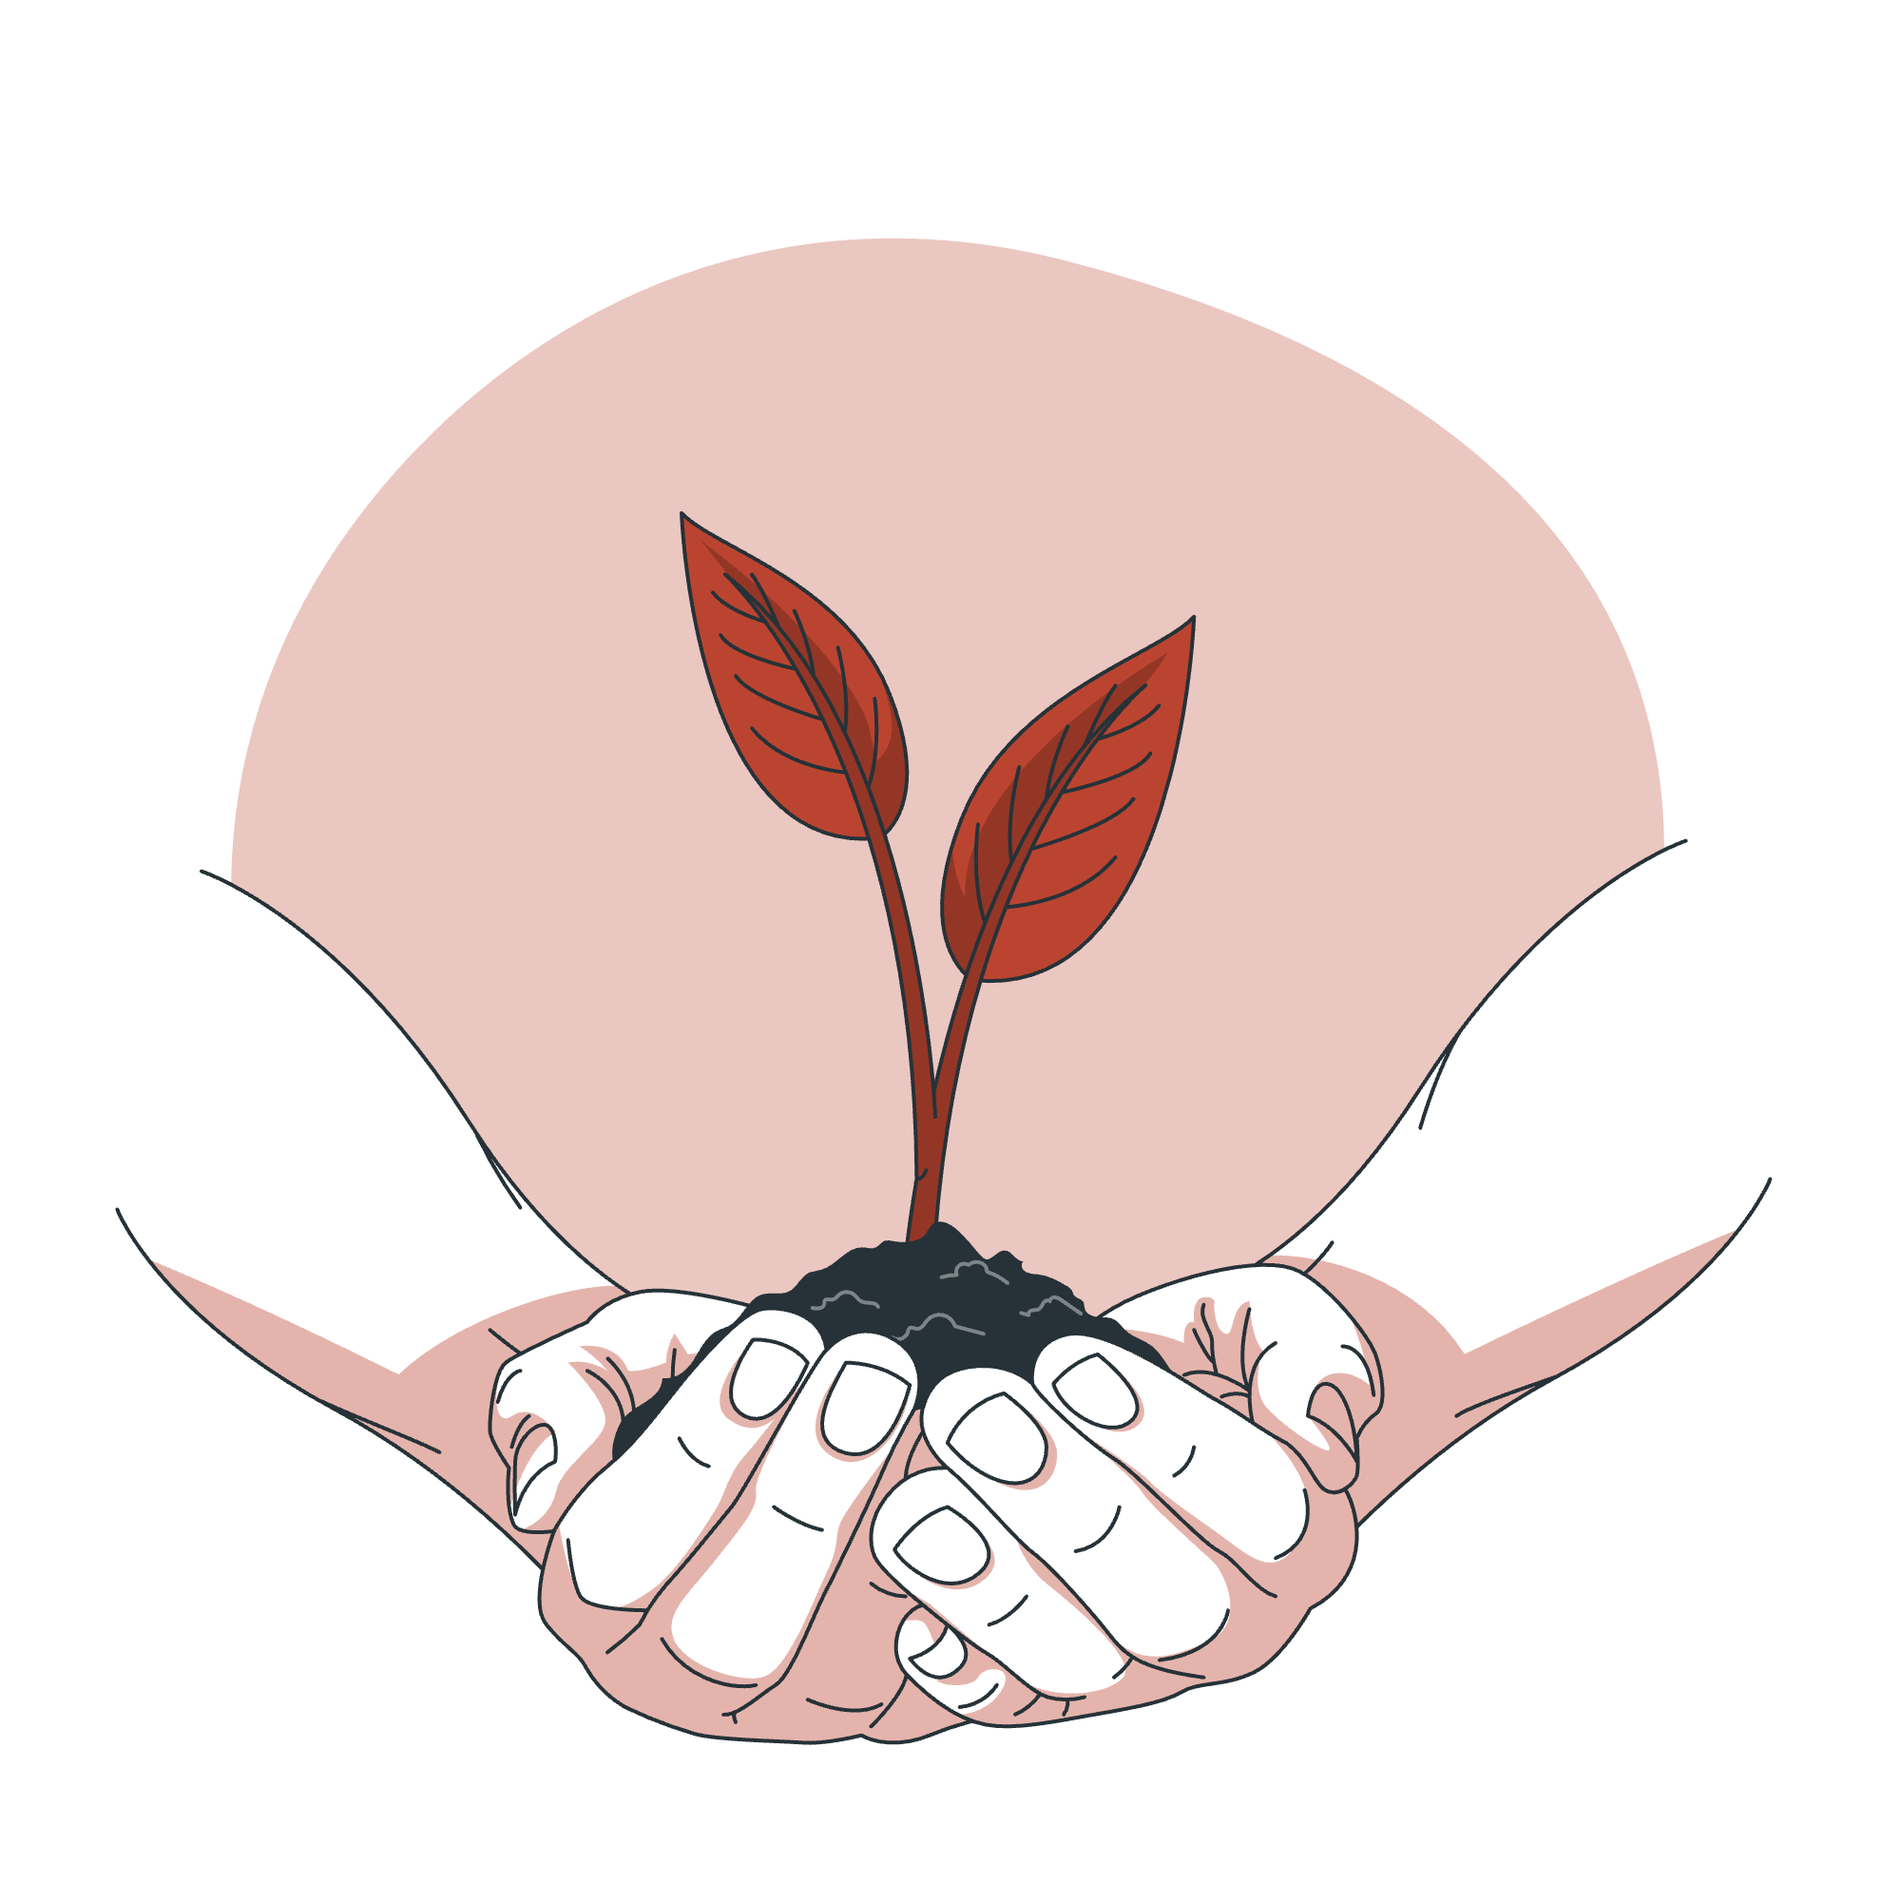
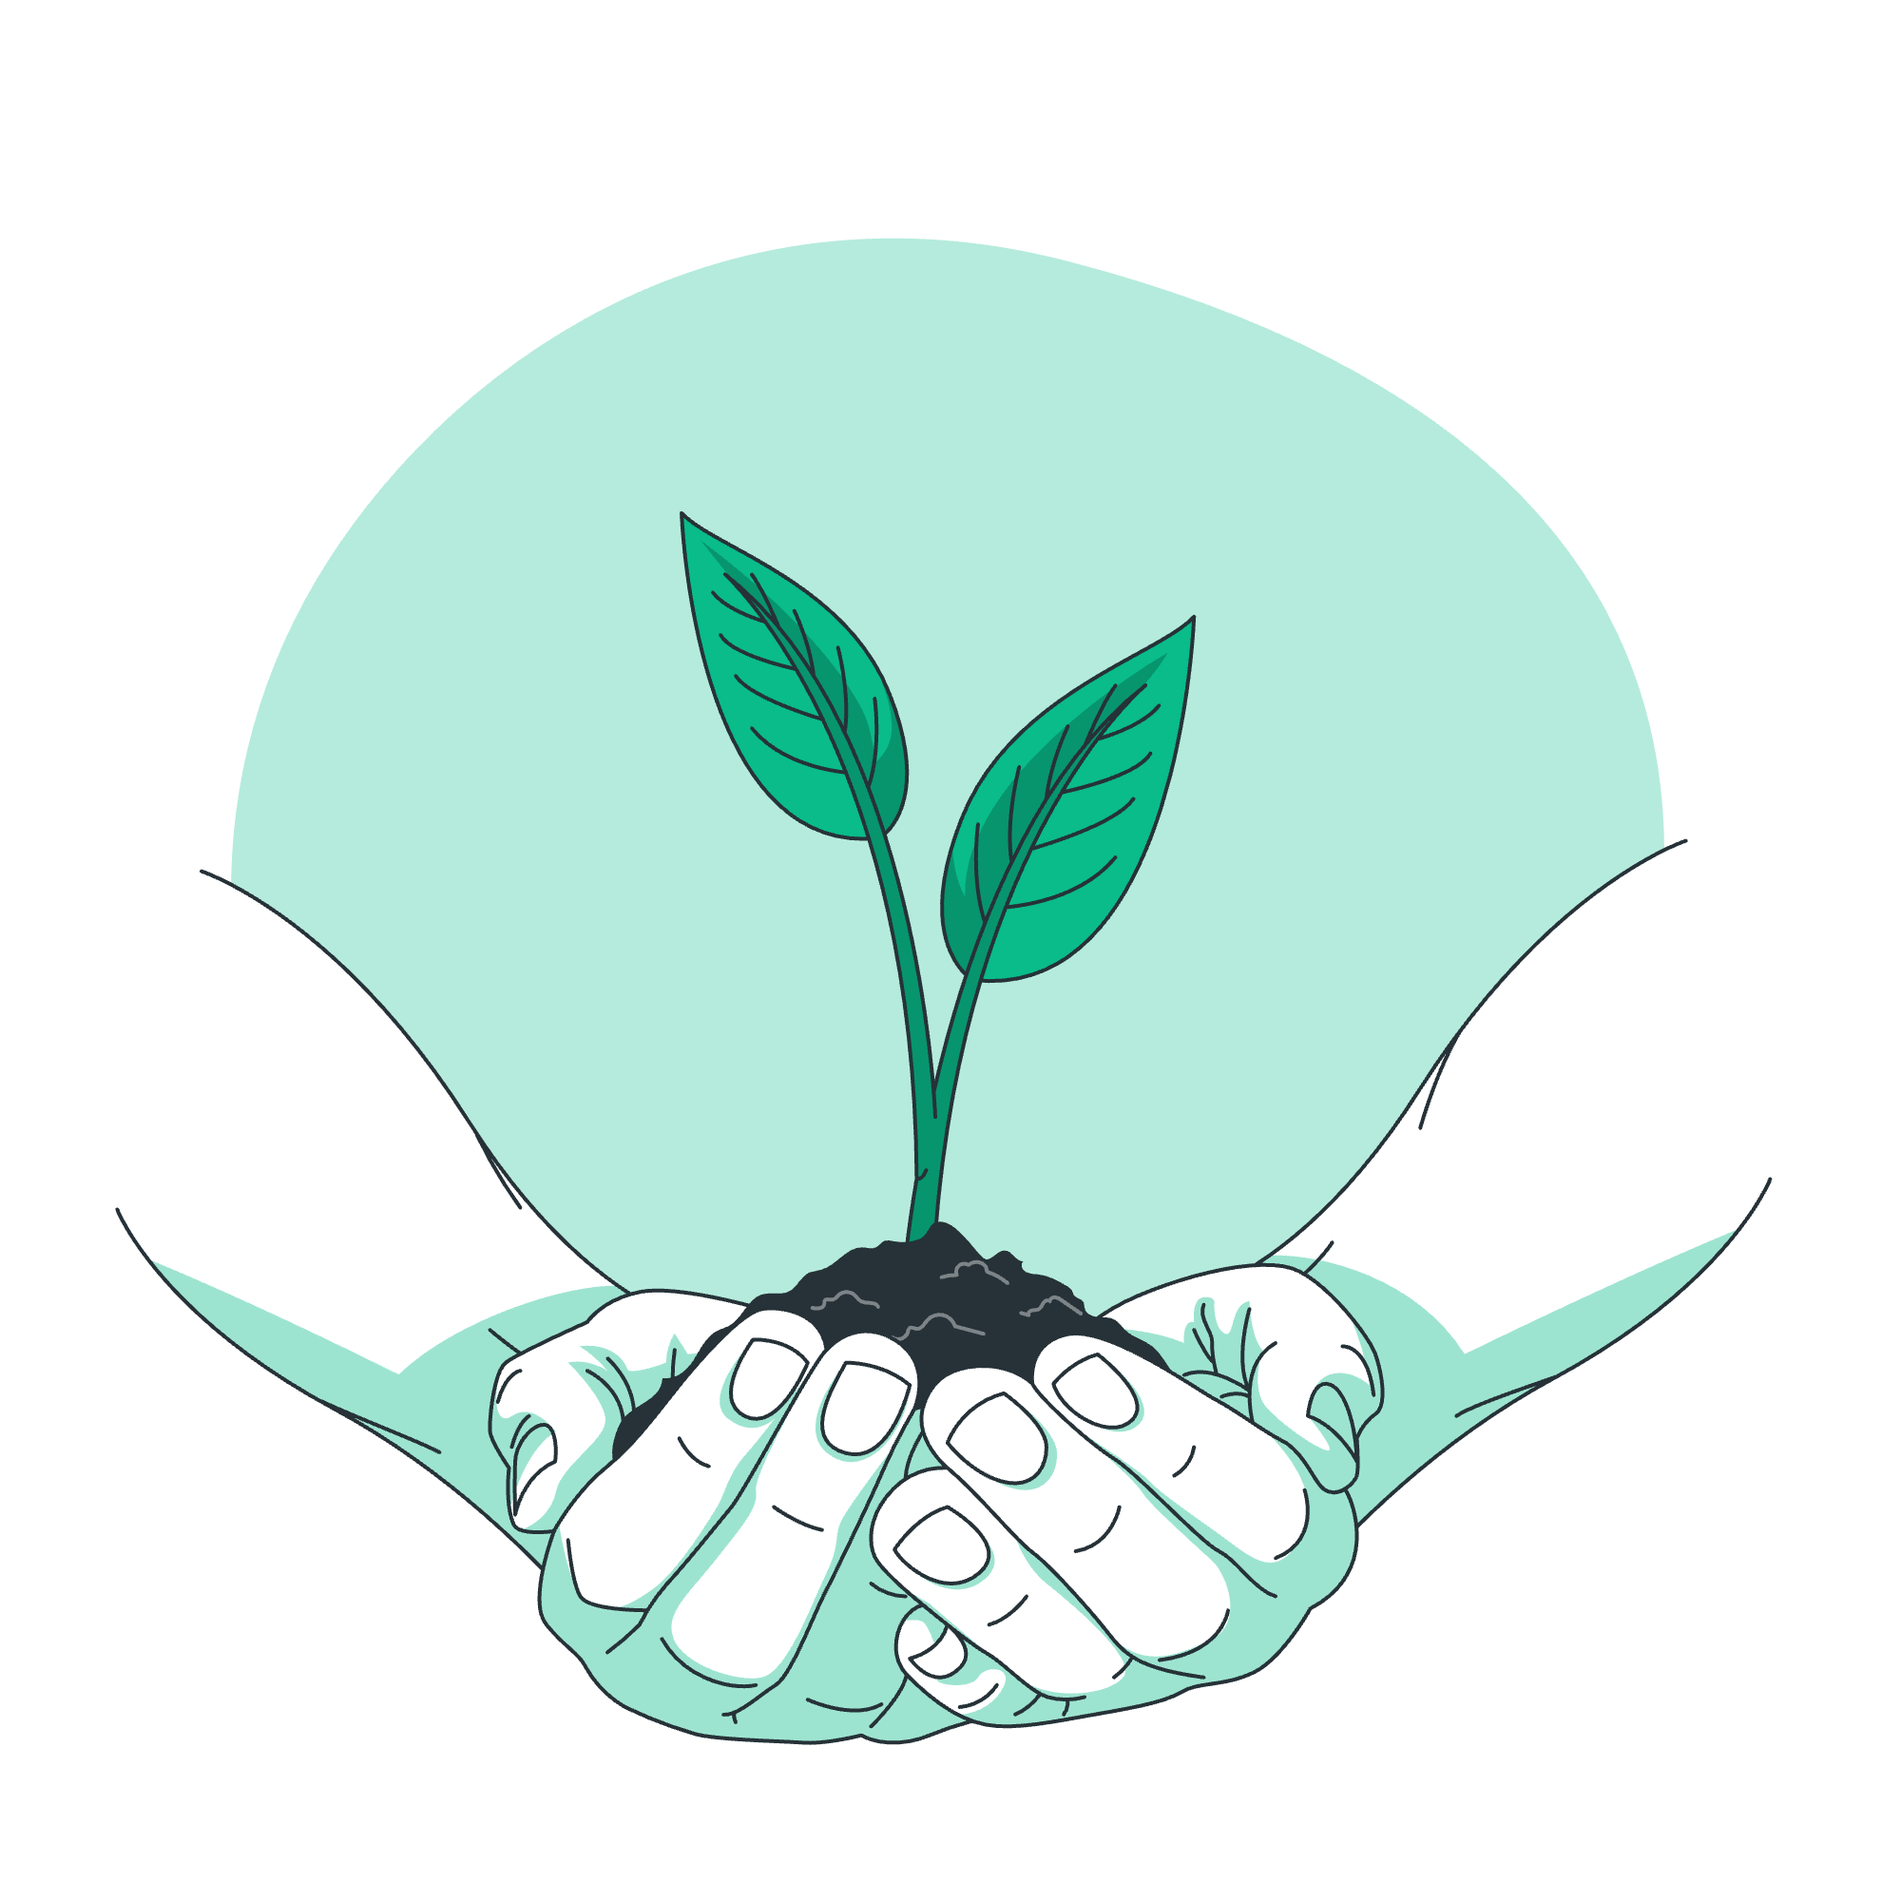
24 March 2025

diff --git a/src/components/navbar.js b/src/components/navbar.js
@@ -2,12 +2,7 @@ import { Link, NavLink } from "react-router-dom";
 import { useState, useEffect } from "react";
 import { Dialog, PopoverGroup, DialogPanel } from "@headlessui/react";
 import { Bars3Icon, XMarkIcon } from "@heroicons/react/24/outline";
-import {
-  ChevronDownIcon,
-  PhoneIcon,
-  PlayCircleIcon,
-} from "@heroicons/react/20/solid";
-import "../styles/header.css"; // Ensure this file includes the custom CSS below
+import "../styles/navbar.css"; // Ensure this file includes the custom CSS below
 
 export default function Navbar() {
   const [mobileMenuOpen, setMobileMenuOpen] = useState(false);
@@ -16,6 +11,7 @@ export default function Navbar() {
   // Listen to scroll events to toggle header background
   useEffect(() => {
     const handleScroll = () => {
+      console.log("scrollY:", window.scrollY);
       if (window.scrollY > 50) {
         setIsScrolled(true);
       } else {
@@ -34,7 +30,7 @@ export default function Navbar() {
   return (
     <header
       className={`fixed inset-x-0 top-0 z-50 transition-colors duration-300 ${
-        isScrolled ? "bg-white shadow-lg" : "bg-transparent"
+        isScrolled ? "bg-[#ffffff] shadow-lg" : "bg-transparent"
       }`}
     >
       <nav
@@ -42,7 +38,7 @@ export default function Navbar() {
         className="flex items-center justify-between p-6 lg:px-8"
       >
         {/* Logo & Text */}
-        <div className="flex lg:flex-1 -m-1.5 p-1.5 text-[#cc4e38] font-bold navbar-logo items-end">
+        <div className="flex lg:flex-1 -m-1.5 p-1.5 text-green-500 font-bold navbar-logo items-end">
           <img
             className="h-8 w-auto"
             src={require("../assets/LOGOVision-removebg.png")}
@@ -113,8 +109,10 @@ export default function Navbar() {
             to="/contactus"
             className={({ isActive }) =>
               `rounded-md py-2 px-4 font-semibold transition duration-200 ${
-                isActive ? "bg-white text-[#BB4430]" : "bg-[#BB4430] text-white"
-              } hover:bg-white hover:text-[#BB4430]`
+                isActive
+                  ? "bg-white text-green-500"
+                  : "bg-green-500 text-white"
+              } hover:bg-white hover:text-green-500`
             }
           >
             Contact Us
@@ -134,7 +132,7 @@ export default function Navbar() {
           <div className="flex items-center justify-between">
             <Link
               to="/"
-              className="-m-1.5 p-1.5 text-indigo-800 font-bold navbar-logo"
+              className="-m-1.5 p-1.5 text-green-500 font-bold navbar-logo"
             >
               <img
                 className="h-8 w-auto absolute left-16"

diff --git a/src/components/footer.js b/src/components/footer.js
@@ -1,8 +1,8 @@
 export const Footer = () => {
   return (
-    <div className="relative mt-16 bg-[#BB4430]">
+    <div className="relative mt-16 bg-green-500">
       <svg
-        className="absolute top-0 w-full h-6 -mt-5 sm:-mt-10 sm:h-16 text-[#BB4430]"
+        className="absolute top-0 w-full h-6 -mt-5 sm:-mt-10 sm:h-16 text-green-500"
         preserveAspectRatio="none"
         viewBox="0 0 1440 54"
       >
@@ -33,7 +33,7 @@ export const Footer = () => {
           </div>
           <div className="grid grid-cols-2 gap-5 row-gap-8 lg:col-span-4 md:grid-cols-4">
             <div>
-              <p className="font-semibold tracking-wide text-[#f3dfa2]">
+              <p className="font-semibold tracking-wide text-orange-500">
                 Menu
               </p>
               <ul className="mt-2 space-y-2">
@@ -61,11 +61,10 @@ export const Footer = () => {
                     Gemstones
                   </a>
                 </li>
-                
               </ul>
             </div>
             <div>
-              <p className="font-semibold tracking-wide text-[#f3dfa2]">
+              <p className="font-semibold tracking-wide text-orange-500">
                 Sponsors
               </p>
               <ul className="mt-2 space-y-2">
@@ -93,12 +92,10 @@ export const Footer = () => {
                     Business
                   </a>
                 </li>
-                
-                
               </ul>
             </div>
             <div>
-              <p className="font-semibold tracking-wide text-[#f3dfa2]">
+              <p className="font-semibold tracking-wide text-orange-500">
                 Partners
               </p>
               <ul className="mt-2 space-y-2">
@@ -126,11 +123,10 @@ export const Footer = () => {
                     Nonprofit
                   </a>
                 </li>
-                
               </ul>
             </div>
             <div>
-              <p className="font-semibold tracking-wide text-[#f3dfa2]">
+              <p className="font-semibold tracking-wide text-orange-500">
                 Business
               </p>
               <ul className="mt-2 space-y-2">
@@ -158,7 +154,6 @@ export const Footer = () => {
                     Wiki
                   </a>
                 </li>
-               
               </ul>
             </div>
           </div>

diff --git a/tailwind.config.js b/tailwind.config.js
@@ -1,11 +1,85 @@
-/** @type {import('tailwindcss').Config} */
+// tailwind.config.js
+const defaultTheme = require('tailwindcss/defaultTheme');
+
 module.exports = {
   content: [
-    "./src/**/*.{js,jsx,ts,tsx}",
+    "./src/**/*.{js,jsx,ts,tsx}", // adjust according to your project structure
   ],
   theme: {
-    extend: {},
+    extend: {
+      colors: {
+        orange: {
+          50: "#f9e0d9", // Lightest
+          100: "#f1c1b5",
+          200: "#e7a292",
+          300: "#da8370",
+          400: "#cb654f",
+          500: "#BB4430", // Main primary color
+          600: "#9a3a29",
+          700: "#7a3022",
+          800: "#5b261c",
+          900: "#3e1d15", // Darkest
+        },
+        green: {
+          50: "#c0ead7", // Lightest
+          100: "#9fdfc3",
+          200: "#7cd3b0",
+          300: "#da8370",
+          400: "#54c89d",
+          500: "#09BC8A", // Main primary color
+          600: "#189a72",
+          700: "#1d795a",
+          800: "#1c5a44",
+          900: "#183d2f", // Darkest
+
+        },
+        black: {
+          50: "#d6d5d5",
+          100: "#aeadad",
+          200: "#888686",
+          300: "#646162",
+          400: "#423f40",
+          500: "#231f20", // Main dark color
+
+        },
+        yellow: {
+          50: "#fff3db",
+          100: "#ffe7b7",
+          200: "#ffdc93",
+          300: "#fcd16f",
+          400: "#f7c647",
+          500: "#f0bb00", // Main accent color
+          600: "#c49910",
+          700: "#9a7815",
+          800: "#725916",
+          900: "#4c3c13",
+        },
+        white: {
+          50: "#fffef7",
+          100: "#fffcee",
+          200: "#fff9e3",
+          300: "#fff6d9",
+          400: "#fff3cf",
+          500: "#f3dfa2", // Main light color
+          600: "#d1b67f",
+          700: "#ae8e5d",
+          800: "#8c664a",
+          900: "#694c38",
+        },
+        background: {
+          50: "#ffffff",
+          100: "#fffdfc",
+          200: "#fefaf9",
+          300: "#fdf7f6",
+          400: "#fcf4f3",
+          500: "#efe6dd", // Main background color
+          600: "#cdb8b1",
+          700: "#ab8a85",
+          800: "#895e59",
+          900: "#69422d",
+        },
+      },
+    },
   },
   plugins: [],
-}
-
+};

diff --git a/src/components/homepage/homeSteps.js b/src/components/homepage/homeSteps.js
@@ -1,6 +1,6 @@
 export const HomeSteps = () => {
   return (
-    <div className="mx-auto bg-[#f3d3ce] lg:py-20">
+    <div className="mx-auto bg-green-50 lg:py-20">
       <div className="max-w-xl mb-10 md:mx-auto sm:text-center lg:max-w-2xl md:mb-12">
         <div>
           <p className="inline-block px-3 py-px mb-4 text-xs font-semibold tracking-wider text-teal-900 uppercase rounded-full bg-teal-accent-400">
@@ -49,7 +49,7 @@ export const HomeSteps = () => {
         <div className="relative text-center">
           <div className="flex items-center justify-center w-16 h-16 mx-auto mb-4 rounded-full bg-indigo-50 sm:w-20 sm:h-20">
             <svg
-              className="w-12 h-12 text-[#BB4430] sm:w-16 sm:h-16"
+              className="w-12 h-12 text-green-500 sm:w-16 sm:h-16"
               stroke="currentColor"
               viewBox="0 0 52 52"
             >
@@ -98,7 +98,7 @@ export const HomeSteps = () => {
         <div className="relative text-center">
           <div className="flex items-center justify-center w-16 h-16 mx-auto mb-4 rounded-full bg-indigo-50 sm:w-20 sm:h-20">
             <svg
-              className="w-12 h-12 text-[#BB4430] sm:w-16 sm:h-16"
+              className="w-12 h-12 text-green-500 sm:w-16 sm:h-16"
               stroke="currentColor"
               viewBox="0 0 52 52"
             >
@@ -147,7 +147,7 @@ export const HomeSteps = () => {
         <div className="relative text-center">
           <div className="flex items-center justify-center w-16 h-16 mx-auto mb-4 rounded-full bg-indigo-50 sm:w-20 sm:h-20">
             <svg
-              className="w-12 h-12 text-[#BB4430] sm:w-16 sm:h-16"
+              className="w-12 h-12 text-green-500 sm:w-16 sm:h-16"
               stroke="currentColor"
               viewBox="0 0 52 52"
             >

diff --git a/src/components/homepage/homeSevices.js b/src/components/homepage/homeSevices.js
@@ -32,9 +32,9 @@ export default function HomeSevices() {
     <div className="bg-white py-24 sm:py-32">
       <div className="mx-auto max-w-7xl px-6 lg:px-8">
         <div className="mx-auto max-w-2xl lg:text-center">
-          <h2 className="text-base/7 font-semibold text-[#BB4430] uppercase">We Strategize</h2>
+          <h2 className="text-base/7 font-semibold text-green-500 uppercase">We Strategize</h2>
           <p className="mt-2 text-4xl font-semibold tracking-tight text-pretty text-gray-900 sm:text-5xl lg:text-balance">
-          Our Company Strategy
+            Our Company Strategy
           </p>
           <p className="mt-6 text-lg/8 text-gray-600">
             Quis tellus eget adipiscing convallis sit sit eget aliquet quis. Suspendisse eget egestas a elementum
@@ -46,7 +46,7 @@ export default function HomeSevices() {
             {features.map((feature) => (
               <div key={feature.name} className="relative pl-16">
                 <dt className="text-base/7 font-semibold text-gray-900">
-                  <div className="absolute top-0 left-0 flex size-10 items-center justify-center rounded-lg bg-[#BB4430]">
+                  <div className="absolute top-0 left-0 flex size-10 items-center justify-center rounded-lg bg-green-500">
                     <feature.icon aria-hidden="true" className="size-6 text-white" />
                   </div>
                   {feature.name}

diff --git a/src/components/homepage/heroIntro.js b/src/components/homepage/heroIntro.js
@@ -1,7 +1,7 @@
 import { Box, Image, Button } from "@chakra-ui/react";
 import { motion } from "framer-motion";
 import { useState, useEffect } from "react";
-import Header from "../header"; // Adjust the import path as needed
+import Header from "../navbar"; // Adjust the import path as needed
 import myImage from "../../assets/MiningHome.jpg"; // Ensure your image is placed in the assets folder
 import "../../styles/services/overlayIntro.css"
 
@@ -109,7 +109,7 @@ const HeroIntro = () => {
                 ENVIRONMENTAL{" "}
                 <span
                   style={{
-                    backgroundColor: "#BB4430",
+                    backgroundColor: "#09BC8A",
                     padding: "0 4px",
                   }}
                 >

diff --git a/src/components/homepage/whoweare.js b/src/components/homepage/whoweare.js
@@ -51,7 +51,7 @@ export const WhoWeAre = () => {
               Let us handle
               <br className="hidden md:block" />
               your next{" "}
-              <span className="inline-block text-[#BB4430]">adventure</span>
+              <span className="inline-block text-green-500">adventure</span>
             </h2>
             <p className="text-base text-gray-700 md:text-lg">
               Vision Kwanda Group Ltd is the company operating in Rwanda and an

diff --git a/src/styles/navbar.css b/src/styles/navbar.css
@@ -35,7 +35,7 @@
     /* highlight covers 80% of the text width from the right */
     height: 36%;
     /* 60% of the text’s height reduced by 40% */
-    background-color: #BB4430;
+    background-color: #09BC8A;
     z-index: -1;
     /* keep it behind the text */
     transform: scaleX(0);

diff --git a/src/components/gemstones/gemstones.js b/src/components/gemstones/gemstones.js
@@ -8,7 +8,7 @@ import {
   useGLTF,
   Line,
 } from "@react-three/drei";
-import Header from "../header";
+import Header from "../navbar";
 
 // RotatingModel auto-rotates when not dragging, and allows custom rotations via pointer events.
 function RotatingModel({
